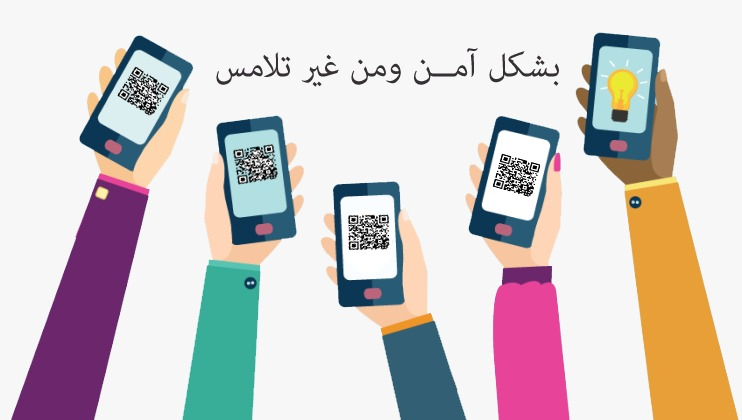
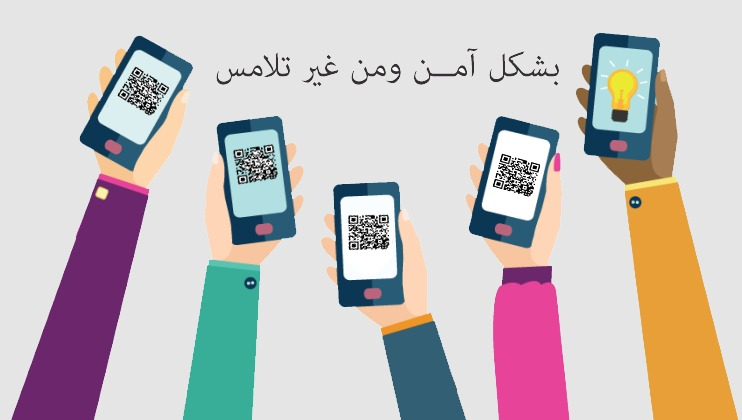
amn project

diff --git a/src/Home.js b/src/Home.js
@@ -2,9 +2,10 @@ import React, { Component } from 'react'
 import { Input, Menu, Container, Grid, GridRow } from 'semantic-ui-react'
 //import "semantic-ui-css/semantic.min.css"
 import App from './App'
-import logo from './images/logo.jpeg'
+import logo1 from './images/logo1.jpeg'
 import Video from './images/Video.jpeg'
 import photo from './images/photo.jpeg'
+import a from './images/a.jpeg'
 
 
 
@@ -26,39 +27,28 @@ export default class Home extends Component {
 
 
 
-                <Container className='a'>
-                    <Grid columns={2} divided reversed='mobile'>
-                        <Grid.Row>
+                <Container className='a' >
+                    <div className="logos">
 
-                            <Grid.Column>
+                        <img src={a} />
 
-                            <img src={logo} />
-                            </Grid.Column>
+                        <img src={logo1} />
+                        <button class="button" style={{marginLeft:'30%'}}>  إنضم لنا </button>
+                        <button class="button" style={{marginRight:'%'}}>شاهد الفديو</button>
 
-
-                            <Grid.Column>
-
-                           
-                                <p>
-                                    <h1>لأننا نهتم بأن تصلك شٌحنتك <br /> بشكل آمن</h1>
-
-                                </p>
-                            </Grid.Column>
-                        </Grid.Row>
-                    </Grid>
-
-                    <img src={Video} />
+                    </div>
+                    <img src={Video} style={{ width: '150%', marginLeft: '12%' }} />
 
 
-
-                    <img src={photo}  style={{mrginRight:'40%'}}/>
-
+                    <div style={{ width: "fit-content", marginLeft: "-90px" }}>
+                        <img src={photo} />
+                    </div>
 
                 </Container>
 
                 <Container>
 
-                    
+
                 </Container>
 
             </div>

diff --git a/src/App.css b/src/App.css
@@ -238,6 +238,26 @@ margin-left:40%
   border-radius: 2%;
   color:#707070;
   margin-right:40%;
+
+}
+.logos{ 
+  display: grid; 
+  grid-template-columns: 1fr 1fr;
+}
+.button {
+  background-color: #70B0B5;
+  height: 80%;
+  width:20%;
+  border: none;
+  color: white;
+  padding: 10px 20px;
+  text-align: center;
+  text-decoration: none;
+  display: inline-block;
+  margin: 4px 2px;
+  cursor: pointer;
+  border-radius: 30px;
+  
 }
 
 .uplading{

diff --git a/src/App.js b/src/App.js
@@ -7,7 +7,7 @@ import Footer from './Footer'
 
 function App() {
   return (
-    <div className="App">
+    <div className="App" style ={{backgroundColor:'#E5E5E5'}}>
       <Nav />
       <Home />
       <Footer />

diff --git a/src/index.css b/src/index.css
@@ -5,6 +5,7 @@ body {
     sans-serif;
   -webkit-font-smoothing: antialiased;
   -moz-osx-font-smoothing: grayscale;
+  
 }
 
 code {

diff --git a/src/FAQ.js b/src/FAQ.js
@@ -1,0 +1,1 @@
+import React, { Component } from 'react'
